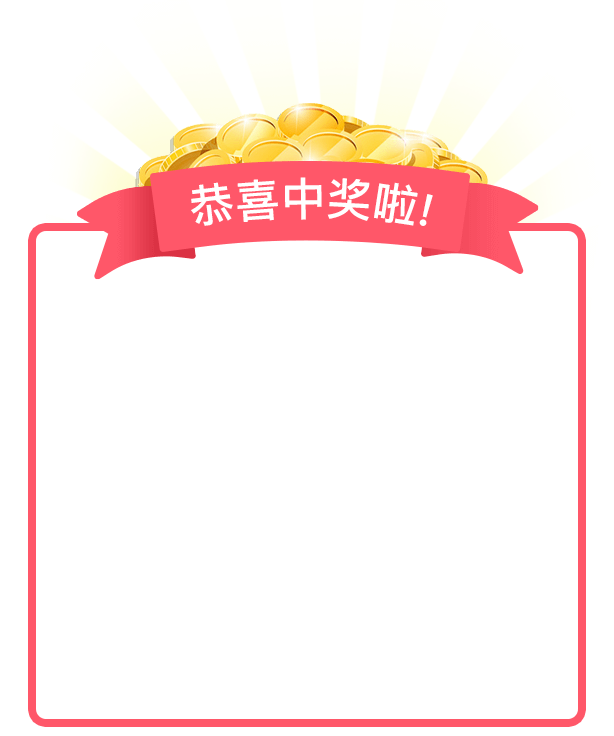
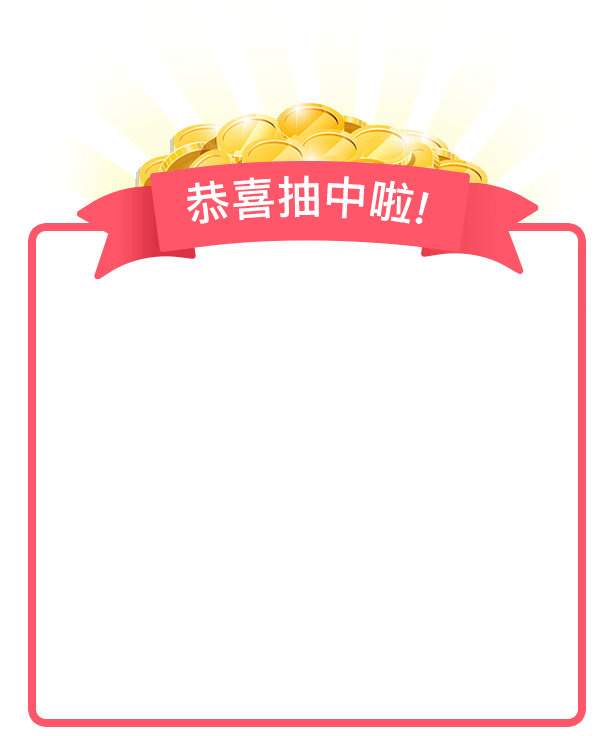
popup modif

Changed region(s): [[0.3094, 0.2188, 0.7117, 0.3125]]

diff --git a/public/client/js/vip-node.js b/public/client/js/vip-node.js
@@ -1104,8 +1104,9 @@ function showWinModal(){
     var remain = 0;
 
     var bet_amount = getNumeric(getNumeric($('.span-bet').val()) * g_w_ratio);
-    var instructions = '您已赢了'+ bet_amount +'元';
-    html += bet_amount +'<span class="packet-currency">元</span>';
+    var total = getNumeric(getNumeric($('.spanAcuPointAndBalance').html()) + bet_amount);
+    var instructions = '您已抽中'+ total +'金币';
+    html += bet_amount;
 
     if(remain < 0){
         remain = 0;
@@ -1145,7 +1146,7 @@ function showLoseModal(){
     var balance = getNumeric($('#hidBalance').val());
     var bet_amount = getNumeric($('.span-bet').val());
     var newbalance = getNumeric(balance - bet_amount);
-    var instruction = '这局亏了'+ bet_amount +'元，继续加油哦';
+    var instruction = '这局亏损'+ bet_amount +'金币，继续加油哦';
 
     //$('.modal-progress-bar').attr("src", image);
     $('#lose-modal .modal-instruction').html(instruction);

diff --git a/resources/views/staradmin/client/vip-node.blade.php b/resources/views/staradmin/client/vip-node.blade.php
@@ -820,13 +820,13 @@
 					<div class="modal-row">
 						<div class="wrapper modal-full-height">							
 							<div class="modal-card">
-								<div class="packet-title">中奖金额</div>
-								<div class="packet-value">6<span class="packet-currency">元</span></div>
+								<div class="packet-title">抽中金币</div>
+								<div class="packet-value">6</div>
 								<div class="close-win-modal modal-redeem-button btn-red-packet">
 									确认领取
 								</div>
 								<div class="instructions">
-									您已赢了6元
+									您已抽中6金币
 								</div>
 								
 							</div>
